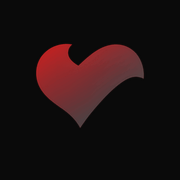
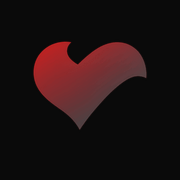
fix(icones): volta ao coração original da banda na aba e nos ícones de app
O favicon.svg era um traço aproximado, não aprovado pelo dono; sai. A aba
usa o favicon.png original (48 e 32 px) e os ícones de iPhone/Android são
gerados do logo.png sobre o preto do site, com respiro para a máscara
redonda (purpose "any maskable" no manifest).

diff --git a/_includes/head.html b/_includes/head.html
@@ -3,8 +3,8 @@
 {% include seo.html %}
 <link rel="preload" href="{{ '/assets/fonts/inter-latin-var.woff2' | relative_url }}" as="font" type="font/woff2" crossorigin>
 <link rel="stylesheet" href="{{ '/assets/css/main.css' | relative_url }}?v={{ site.time | date: '%s' }}">
-<link rel="icon" href="{{ '/assets/favicon.svg' | relative_url }}" type="image/svg+xml">
 <link rel="icon" href="{{ '/assets/favicon.png' | relative_url }}" sizes="48x48" type="image/png">
+<link rel="icon" href="{{ '/assets/favicon-32.png' | relative_url }}" sizes="32x32" type="image/png">
 <link rel="apple-touch-icon" href="{{ '/assets/apple-touch-icon.png' | relative_url }}">
 <link rel="manifest" href="{{ '/site.webmanifest' | relative_url }}">
 <meta name="theme-color" content="#0A0A0A">
